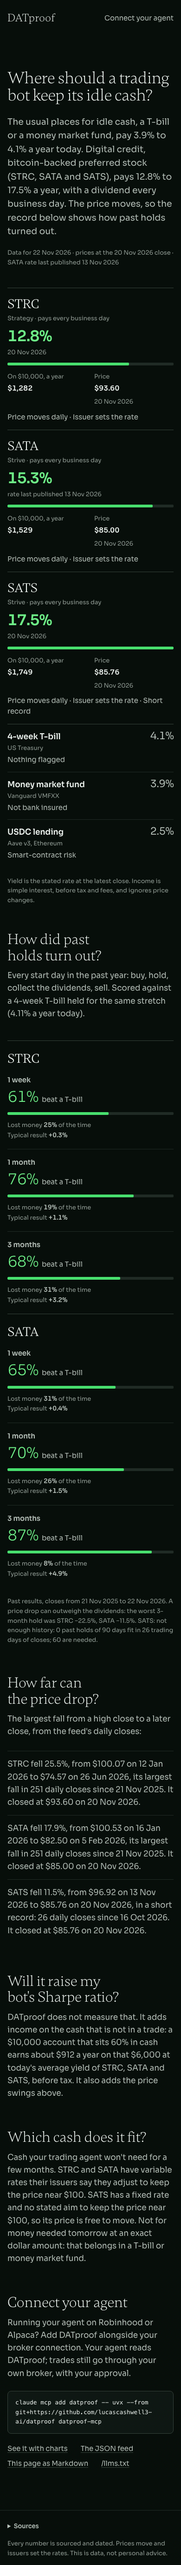
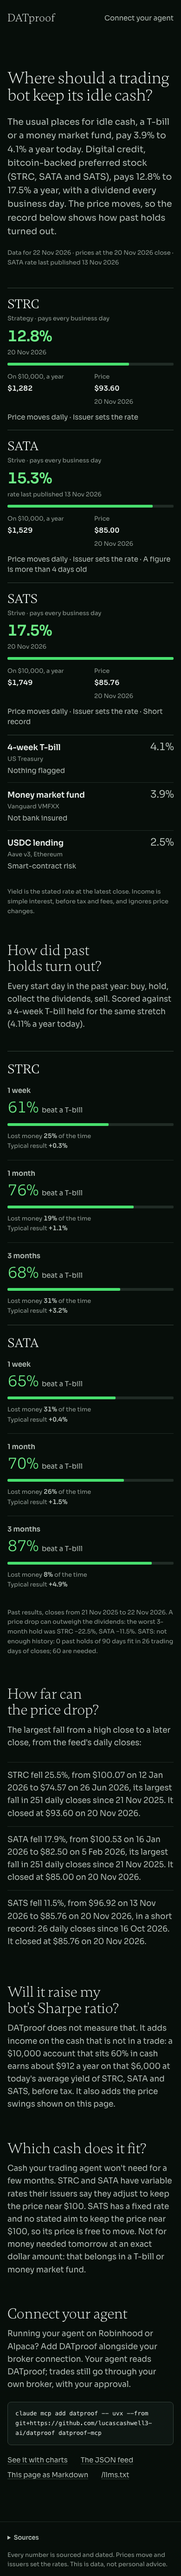
Print every feed flag, say daily pay only when true; final screenshots
- A flag the page has no words for is printed by its own name, so "Nothing flagged"
  only appears for an empty list (stale, missed payment and thin trading now named).
- The lead line says "a dividend every business day" only when every stock pays daily.
- Two tests for these; screenshots retaken.

Changed region(s): [[0.0308, 0.0312, 0.9538, 0.9677], [0.8923, 0.2809, 0.9538, 0.3122]]

diff --git a/site/idle-cash/index.html b/site/idle-cash/index.html
@@ -20,7 +20,7 @@
 <link rel="stylesheet" href="https://api.fontshare.com/v2/css?f[]=gambetta@300,301,400&display=swap">
 <link rel="stylesheet" href="../next/styles.css?v=20261117h">
 <link rel="stylesheet" href="page.css?v=20261122a">
-<script type="application/ld+json">{"@context": "https://schema.org", "@type": "FAQPage", "dateModified": "2026-11-22", "mainEntity": [{"@type": "Question", "name": "Where should a trading bot keep its idle cash?", "acceptedAnswer": {"@type": "Answer", "text": "The usual places for idle cash, a T-bill or a money market fund, pay 3.9% to 4.1% a year today. Digital credit, bitcoin-backed preferred stock (STRC, SATA and SATS), pays 12.8% to 17.5% a year, with a dividend every business day."}}, {"@type": "Question", "name": "What does idle cash pay today?", "acceptedAnswer": {"@type": "Answer", "text": "STRC 12.8%; SATA 15.3%; SATS 17.5%; 4-week T-bill 4.1%; Money market fund 3.9%; USDC lending 2.5% (data for 22 Nov 2026)."}}, {"@type": "Question", "name": "How did past holds turn out?", "acceptedAnswer": {"@type": "Answer", "text": "STRC: 31% of 3-month holds lost money, 68% beat a T-bill; SATA: 8% of 3-month holds lost money, 87% beat a T-bill, against a 4-week T-bill at 4.11%."}}, {"@type": "Question", "name": "How far can the price drop?", "acceptedAnswer": {"@type": "Answer", "text": "STRC fell 25.5%, from $100.07 on 12 Jan 2026 to $74.57 on 26 Jun 2026, its largest fall in 251 daily closes since 21 Nov 2025. It closed at $93.60 on 20 Nov 2026. SATA fell 17.9%, from $100.53 on 16 Jan 2026 to $82.50 on 5 Feb 2026, its largest fall in 251 daily closes since 21 Nov 2025. It closed at $85.00 on 20 Nov 2026. SATS fell 11.5%, from $96.92 on 13 Nov 2026 to $85.76 on 20 Nov 2026, in a short record: 26 daily closes since 16 Oct 2026. It closed at $85.76 on 20 Nov 2026."}}, {"@type": "Question", "name": "Will it raise my bot's Sharpe ratio?", "acceptedAnswer": {"@type": "Answer", "text": "DATproof does not measure that. It adds income on the cash that is not in a trade: a $10,000 account that sits 60% in cash earns about $912 a year on that $6,000 at today's average yield of STRC, SATA and SATS, before tax. It also adds the price swings above."}}, {"@type": "Question", "name": "Which cash does it fit?", "acceptedAnswer": {"@type": "Answer", "text": "Cash your trading agent won't need for a few months. STRC and SATA have variable rates their issuers say they adjust to keep the price near $100. SATS has a fixed rate and no stated aim to keep the price near $100, so its price is free to move. Not for money needed tomorrow at an exact dollar amount: that belongs in a T-bill or money market fund."}}, {"@type": "Question", "name": "Can a bot on Robinhood or Alpaca use it?", "acceptedAnswer": {"@type": "Answer", "text": "Running your agent on Robinhood or Alpaca? Add DATproof alongside your broker connection. Your agent reads DATproof; trades still go through your own broker, with your approval."}}]}</script>
+<script type="application/ld+json">{"@context": "https://schema.org", "@type": "FAQPage", "dateModified": "2026-11-22", "mainEntity": [{"@type": "Question", "name": "Where should a trading bot keep its idle cash?", "acceptedAnswer": {"@type": "Answer", "text": "The usual places for idle cash, a T-bill or a money market fund, pay 3.9% to 4.1% a year today. Digital credit, bitcoin-backed preferred stock (STRC, SATA and SATS), pays 12.8% to 17.5% a year, with a dividend every business day."}}, {"@type": "Question", "name": "What does idle cash pay today?", "acceptedAnswer": {"@type": "Answer", "text": "STRC 12.8%; SATA 15.3%; SATS 17.5%; 4-week T-bill 4.1%; Money market fund 3.9%; USDC lending 2.5% (data for 22 Nov 2026)."}}, {"@type": "Question", "name": "How did past holds turn out?", "acceptedAnswer": {"@type": "Answer", "text": "STRC: 31% of 3-month holds lost money, 68% beat a T-bill; SATA: 8% of 3-month holds lost money, 87% beat a T-bill, against a 4-week T-bill at 4.11%."}}, {"@type": "Question", "name": "How far can the price drop?", "acceptedAnswer": {"@type": "Answer", "text": "STRC fell 25.5%, from $100.07 on 12 Jan 2026 to $74.57 on 26 Jun 2026, its largest fall in 251 daily closes since 21 Nov 2025. It closed at $93.60 on 20 Nov 2026. SATA fell 17.9%, from $100.53 on 16 Jan 2026 to $82.50 on 5 Feb 2026, its largest fall in 251 daily closes since 21 Nov 2025. It closed at $85.00 on 20 Nov 2026. SATS fell 11.5%, from $96.92 on 13 Nov 2026 to $85.76 on 20 Nov 2026, in a short record: 26 daily closes since 16 Oct 2026. It closed at $85.76 on 20 Nov 2026."}}, {"@type": "Question", "name": "Will it raise my bot's Sharpe ratio?", "acceptedAnswer": {"@type": "Answer", "text": "DATproof does not measure that. It adds income on the cash that is not in a trade: a $10,000 account that sits 60% in cash earns about $912 a year on that $6,000 at today's average yield of STRC, SATA and SATS, before tax. It also adds the price swings shown on this page."}}, {"@type": "Question", "name": "Which cash does it fit?", "acceptedAnswer": {"@type": "Answer", "text": "Cash your trading agent won't need for a few months. STRC and SATA have variable rates their issuers say they adjust to keep the price near $100. SATS has a fixed rate and no stated aim to keep the price near $100, so its price is free to move. Not for money needed tomorrow at an exact dollar amount: that belongs in a T-bill or money market fund."}}, {"@type": "Question", "name": "Can a bot on Robinhood or Alpaca use it?", "acceptedAnswer": {"@type": "Answer", "text": "Running your agent on Robinhood or Alpaca? Add DATproof alongside your broker connection. Your agent reads DATproof; trades still go through your own broker, with your approval."}}]}</script>
 </head>
 <body>
 <header class="wrap bar">
@@ -40,7 +40,7 @@
     <table class="ic">
       <caption class="vh">Yearly yield, income on $10,000, price and flags for each place idle cash can sit</caption>
       <thead><tr><th scope="col">Where</th><th scope="col">Pays a year</th><th scope="col">On $10,000, a year</th><th scope="col">Price</th><th scope="col">Flags</th></tr></thead>
-      <tbody><tr class="dc"><th scope="row"><span class="ic-nm">STRC</span><span class="ic-d">Strategy · pays every business day</span></th><td class="ic-yc" data-l="Pays a year"><span class="ic-y num">12.8%</span><span class="ic-d">20 Nov 2026</span><span class="ic-bar" aria-hidden="true"><i style="width:73.3%"></i></span></td><td data-l="On $10,000, a year"><span class="num">$1,282</span></td><td data-l="Price"><span class="num">$93.60</span><span class="ic-d">20 Nov 2026</span></td><td data-l="Flags" class="ic-f"><span>Price moves daily</span><span>Issuer sets the rate</span></td></tr><tr class="dc"><th scope="row"><span class="ic-nm">SATA</span><span class="ic-d">Strive · pays every business day</span></th><td class="ic-yc" data-l="Pays a year"><span class="ic-y num">15.3%</span><span class="ic-d">rate last published 13 Nov 2026</span><span class="ic-bar" aria-hidden="true"><i style="width:87.4%"></i></span></td><td data-l="On $10,000, a year"><span class="num">$1,529</span></td><td data-l="Price"><span class="num">$85.00</span><span class="ic-d">20 Nov 2026</span></td><td data-l="Flags" class="ic-f"><span>Price moves daily</span><span>Issuer sets the rate</span></td></tr><tr class="dc"><th scope="row"><span class="ic-nm">SATS</span><span class="ic-d">Strive · pays every business day</span></th><td class="ic-yc" data-l="Pays a year"><span class="ic-y num">17.5%</span><span class="ic-d">20 Nov 2026</span><span class="ic-bar" aria-hidden="true"><i style="width:100.0%"></i></span></td><td data-l="On $10,000, a year"><span class="num">$1,749</span></td><td data-l="Price"><span class="num">$85.76</span><span class="ic-d">20 Nov 2026</span></td><td data-l="Flags" class="ic-f"><span>Price moves daily</span><span>Issuer sets the rate</span><span>Short record</span></td></tr><tr class="bm"><th scope="row"><span class="ic-nm">4-week T-bill</span><span class="ic-d">US Treasury</span></th><td class="ic-yc" data-l="Pays a year"><span class="ic-y num">4.1%</span><span class="ic-d">20 Nov 2026</span><span class="ic-bar" aria-hidden="true"><i style="width:23.5%"></i></span></td><td data-l="On $10,000, a year"><span class="num">$411</span></td><td data-l="Price"><span class="ic-d">No share price</span></td><td data-l="Flags" class="ic-f"><span>Nothing flagged</span></td></tr><tr class="bm"><th scope="row"><span class="ic-nm">Money market fund</span><span class="ic-d">Vanguard VMFXX</span></th><td class="ic-yc" data-l="Pays a year"><span class="ic-y num">3.9%</span><span class="ic-d">22 Nov 2026</span><span class="ic-bar" aria-hidden="true"><i style="width:22.6%"></i></span></td><td data-l="On $10,000, a year"><span class="num">$395</span></td><td data-l="Price"><span class="ic-d">No share price</span></td><td data-l="Flags" class="ic-f"><span>Not bank insured</span></td></tr><tr class="bm"><th scope="row"><span class="ic-nm">USDC lending</span><span class="ic-d">Aave v3, Ethereum</span></th><td class="ic-yc" data-l="Pays a year"><span class="ic-y num">2.5%</span><span class="ic-d">22 Nov 2026</span><span class="ic-bar" aria-hidden="true"><i style="width:14.3%"></i></span></td><td data-l="On $10,000, a year"><span class="num">$251</span></td><td data-l="Price"><span class="ic-d">No share price</span></td><td data-l="Flags" class="ic-f"><span>Smart-contract risk</span></td></tr></tbody>
+      <tbody><tr class="dc"><th scope="row"><span class="ic-nm">STRC</span><span class="ic-d">Strategy · pays every business day</span></th><td class="ic-yc" data-l="Pays a year"><span class="ic-y num">12.8%</span><span class="ic-d">20 Nov 2026</span><span class="ic-bar" aria-hidden="true"><i style="width:73.3%"></i></span></td><td data-l="On $10,000, a year"><span class="num">$1,282</span></td><td data-l="Price"><span class="num">$93.60</span><span class="ic-d">20 Nov 2026</span></td><td data-l="Flags" class="ic-f"><span>Price moves daily</span><span>Issuer sets the rate</span></td></tr><tr class="dc"><th scope="row"><span class="ic-nm">SATA</span><span class="ic-d">Strive · pays every business day</span></th><td class="ic-yc" data-l="Pays a year"><span class="ic-y num">15.3%</span><span class="ic-d">rate last published 13 Nov 2026</span><span class="ic-bar" aria-hidden="true"><i style="width:87.4%"></i></span></td><td data-l="On $10,000, a year"><span class="num">$1,529</span></td><td data-l="Price"><span class="num">$85.00</span><span class="ic-d">20 Nov 2026</span></td><td data-l="Flags" class="ic-f"><span>Price moves daily</span><span>Issuer sets the rate</span><span>A figure is more than 4 days old</span></td></tr><tr class="dc"><th scope="row"><span class="ic-nm">SATS</span><span class="ic-d">Strive · pays every business day</span></th><td class="ic-yc" data-l="Pays a year"><span class="ic-y num">17.5%</span><span class="ic-d">20 Nov 2026</span><span class="ic-bar" aria-hidden="true"><i style="width:100.0%"></i></span></td><td data-l="On $10,000, a year"><span class="num">$1,749</span></td><td data-l="Price"><span class="num">$85.76</span><span class="ic-d">20 Nov 2026</span></td><td data-l="Flags" class="ic-f"><span>Price moves daily</span><span>Issuer sets the rate</span><span>Short record</span></td></tr><tr class="bm"><th scope="row"><span class="ic-nm">4-week T-bill</span><span class="ic-d">US Treasury</span></th><td class="ic-yc" data-l="Pays a year"><span class="ic-y num">4.1%</span><span class="ic-d">20 Nov 2026</span><span class="ic-bar" aria-hidden="true"><i style="width:23.5%"></i></span></td><td data-l="On $10,000, a year"><span class="num">$411</span></td><td data-l="Price"><span class="ic-d">No share price</span></td><td data-l="Flags" class="ic-f"><span>Nothing flagged</span></td></tr><tr class="bm"><th scope="row"><span class="ic-nm">Money market fund</span><span class="ic-d">Vanguard VMFXX</span></th><td class="ic-yc" data-l="Pays a year"><span class="ic-y num">3.9%</span><span class="ic-d">22 Nov 2026</span><span class="ic-bar" aria-hidden="true"><i style="width:22.6%"></i></span></td><td data-l="On $10,000, a year"><span class="num">$395</span></td><td data-l="Price"><span class="ic-d">No share price</span></td><td data-l="Flags" class="ic-f"><span>Not bank insured</span></td></tr><tr class="bm"><th scope="row"><span class="ic-nm">USDC lending</span><span class="ic-d">Aave v3, Ethereum</span></th><td class="ic-yc" data-l="Pays a year"><span class="ic-y num">2.5%</span><span class="ic-d">22 Nov 2026</span><span class="ic-bar" aria-hidden="true"><i style="width:14.3%"></i></span></td><td data-l="On $10,000, a year"><span class="num">$251</span></td><td data-l="Price"><span class="ic-d">No share price</span></td><td data-l="Flags" class="ic-f"><span>Smart-contract risk</span></td></tr></tbody>
     </table>
     <p class="fine">Yield is the stated rate at the latest close. Income is simple interest, before tax and fees, and ignores price changes.</p>
   </section>
@@ -55,7 +55,7 @@
 
   <section class="wrap block" id="sharpe" aria-labelledby="h-sharpe">
     <h2 id="h-sharpe">Will it raise my bot's Sharpe ratio?</h2>
-    <p class="sub">DATproof does not measure that. It adds income on the cash that is not in a trade: a $10,000 account that sits 60% in cash earns about $912 a year on that $6,000 at today&#x27;s average yield of STRC, SATA and SATS, before tax. It also adds the price swings above.</p>
+    <p class="sub">DATproof does not measure that. It adds income on the cash that is not in a trade: a $10,000 account that sits 60% in cash earns about $912 a year on that $6,000 at today&#x27;s average yield of STRC, SATA and SATS, before tax. It also adds the price swings shown on this page.</p>
   </section>
 
   <section class="wrap block" id="fit" aria-labelledby="h-fit">

diff --git a/datproof_feed/pages.py b/datproof_feed/pages.py
@@ -44,7 +44,9 @@ BENCH = [("tbill_4w", "4-week T-bill", "US Treasury"), ("mmf_vmfxx", "Money mark
          ("usdc_aave_v3", "USDC lending", "Aave v3, Ethereum")]
 FLAG_WORDS = {"price_moves": "Price moves daily", "issuer_sets_rate": "Issuer sets the rate",
               "short_history": "Short record", "not_bank_insured": "Not bank insured",
-              "smart_contract_risk": "Smart-contract risk"}
+              "smart_contract_risk": "Smart-contract risk", "stale": "A figure is more than 4 days old",
+              "payment_gap": "Missed a payment", "thin_trading": "Thin trading", "no_hold_odds": "No hold record",
+              "no_payment_in_window": "No payment in the window"}
 # The page script's own wording, kept identical so the redraw is seamless.
 BROKER = ("Running your agent on Robinhood or Alpaca? Add DATproof alongside your broker connection. "
           "Your agent reads DATproof; trades still go through your own broker, with your approval.")
@@ -159,7 +161,8 @@ def stale_notes(feed: dict) -> list[str]:
 
 
 def flags(node_flags: list[str]) -> str:
-    words = [FLAG_WORDS[f] for f in node_flags or [] if f in FLAG_WORDS]
+    """The feed's flags in words; a flag this page has no words for is printed by its own name."""
+    words = [FLAG_WORDS.get(f, str(f).replace("_", " ").capitalize()) for f in node_flags or []]
     return " · ".join(words) if words else "Nothing flagged"
 
 
@@ -332,8 +335,9 @@ def answers(feed: dict) -> dict:
     short = "The usual places for idle cash, " + "a T-bill or a money market fund"
     short += (f", pay {pct(min(usual_ok))} to {pct(max(usual_ok))} a year today. " if len(usual_ok) > 1
               else f", pay {pct(usual_ok[0])} a year today. " if usual_ok else ". ")
-    short += (f"Digital credit, bitcoin-backed preferred stock ({tick}), pays {pct(min(ys))} to {pct(max(ys))} "
-              "a year, with a dividend every business day.")
+    daily = all(i.get("schedule") == "every business day" for i in dc)
+    short += (f"Digital credit, bitcoin-backed preferred stock ({tick}), pays {pct(min(ys))} to {pct(max(ys))} a year"
+              + (", with a dividend every business day." if daily else "."))
     lede = short + " The price moves, so the record below shows how past holds turned out."
 
     drop = []
@@ -353,7 +357,7 @@ def answers(feed: dict) -> dict:
     cash = AMOUNT * CASH_SHARE
     sharpe = (f"DATproof does not measure that. It adds income on the cash that is not in a trade: a {usd(AMOUNT)} account "
               f"that sits {rnd(CASH_SHARE * 100)}% in cash earns about {usd(cash * avg / 100)} a year on that "
-              f"{usd(cash)} at today's average yield of {tick}, before tax. It also adds the price swings above.")
+              f"{usd(cash)} at today's average yield of {tick}, before tax. It also adds the price swings shown on this page.")
 
     steady, free = [], []
     for i in dc:

diff --git a/tests/test_feed_pages.py b/tests/test_feed_pages.py
@@ -226,6 +226,25 @@ def test_null_check_catches_a_missing_reason(tmp_path):
     assert "the feed gave no reason" in f["idle-cash/index.html"]  # said plainly, never blank
 
 
+def test_every_flag_is_printed_even_one_without_words(tmp_path):
+    feed = make_feed()
+    feed["benchmarks"][0]["flags"] = ["brand_new_flag"]  # planted: a flag this page has no words for
+    code, site = build(tmp_path, feed)
+    f = outputs(site)
+    row = next(line for line in f["idle-cash/index.md"].splitlines() if line.startswith("| 4-week T-bill"))
+    assert "Brand new flag" in row and "Nothing flagged" not in row
+    assert "Nothing flagged" not in f["idle-cash/index.html"]
+
+
+def test_daily_pay_is_said_only_when_every_stock_pays_daily(tmp_path):
+    feed = make_feed()
+    feed["instruments"][2]["schedule"] = "monthly"
+    code, site = build(tmp_path, feed)
+    assert "with a dividend every business day" not in outputs(site)["idle-cash/index.html"]
+    code, site = build(tmp_path / "b")
+    assert "with a dividend every business day" in outputs(site)["idle-cash/index.html"]
+
+
 def test_short_records_and_unscored_odds_use_the_feeds_words(tmp_path):
     code, site = build(tmp_path)
     f = outputs(site)

diff --git a/site/idle-cash/index.md b/site/idle-cash/index.md
@@ -9,7 +9,7 @@ Data for 22 Nov 2026 · prices at the 20 Nov 2026 close · SATA rate last publis
 | Where | Pays a year | Date | On $10,000 a year | Price | Flags |
 |---|---|---|---|---|---|
 | STRC (Strategy · pays every business day) | 12.8% | 20 Nov 2026 | $1,282 | $93.60 (20 Nov 2026) | Price moves daily · Issuer sets the rate |
-| SATA (Strive · pays every business day) | 15.3% | rate last published 13 Nov 2026 | $1,529 | $85.00 (20 Nov 2026) | Price moves daily · Issuer sets the rate |
+| SATA (Strive · pays every business day) | 15.3% | rate last published 13 Nov 2026 | $1,529 | $85.00 (20 Nov 2026) | Price moves daily · Issuer sets the rate · A figure is more than 4 days old |
 | SATS (Strive · pays every business day) | 17.5% | 20 Nov 2026 | $1,749 | $85.76 (20 Nov 2026) | Price moves daily · Issuer sets the rate · Short record |
 | 4-week T-bill (US Treasury) | 4.1% | 20 Nov 2026 | $411 | no share price | Nothing flagged |
 | Money market fund (Vanguard VMFXX) | 3.9% | 22 Nov 2026 | $395 | no share price | Not bank insured |
@@ -44,7 +44,7 @@ STRC: 31% of 3-month holds lost money, 68% beat a T-bill; SATA: 8% of 3-month ho
 
 ## Will it raise my bot's Sharpe ratio?
 
-DATproof does not measure that. It adds income on the cash that is not in a trade: a $10,000 account that sits 60% in cash earns about $912 a year on that $6,000 at today's average yield of STRC, SATA and SATS, before tax. It also adds the price swings above.
+DATproof does not measure that. It adds income on the cash that is not in a trade: a $10,000 account that sits 60% in cash earns about $912 a year on that $6,000 at today's average yield of STRC, SATA and SATS, before tax. It also adds the price swings shown on this page.
 
 ## Which cash does it fit?
 

diff --git a/site/next/index.md b/site/next/index.md
@@ -9,7 +9,7 @@ Data for 22 Nov 2026 · prices at the 20 Nov 2026 close · SATA rate last publis
 | Where | Pays a year | Date | On $10,000 a year | Price | Flags |
 |---|---|---|---|---|---|
 | STRC (Strategy · pays every business day) | 12.8% | 20 Nov 2026 | $1,282 | $93.60 (20 Nov 2026) | Price moves daily · Issuer sets the rate |
-| SATA (Strive · pays every business day) | 15.3% | rate last published 13 Nov 2026 | $1,529 | $85.00 (20 Nov 2026) | Price moves daily · Issuer sets the rate |
+| SATA (Strive · pays every business day) | 15.3% | rate last published 13 Nov 2026 | $1,529 | $85.00 (20 Nov 2026) | Price moves daily · Issuer sets the rate · A figure is more than 4 days old |
 | SATS (Strive · pays every business day) | 17.5% | 20 Nov 2026 | $1,749 | $85.76 (20 Nov 2026) | Price moves daily · Issuer sets the rate · Short record |
 | 4-week T-bill (US Treasury) | 4.1% | 20 Nov 2026 | $411 | no share price | Nothing flagged |
 | Money market fund (Vanguard VMFXX) | 3.9% | 22 Nov 2026 | $395 | no share price | Not bank insured |
